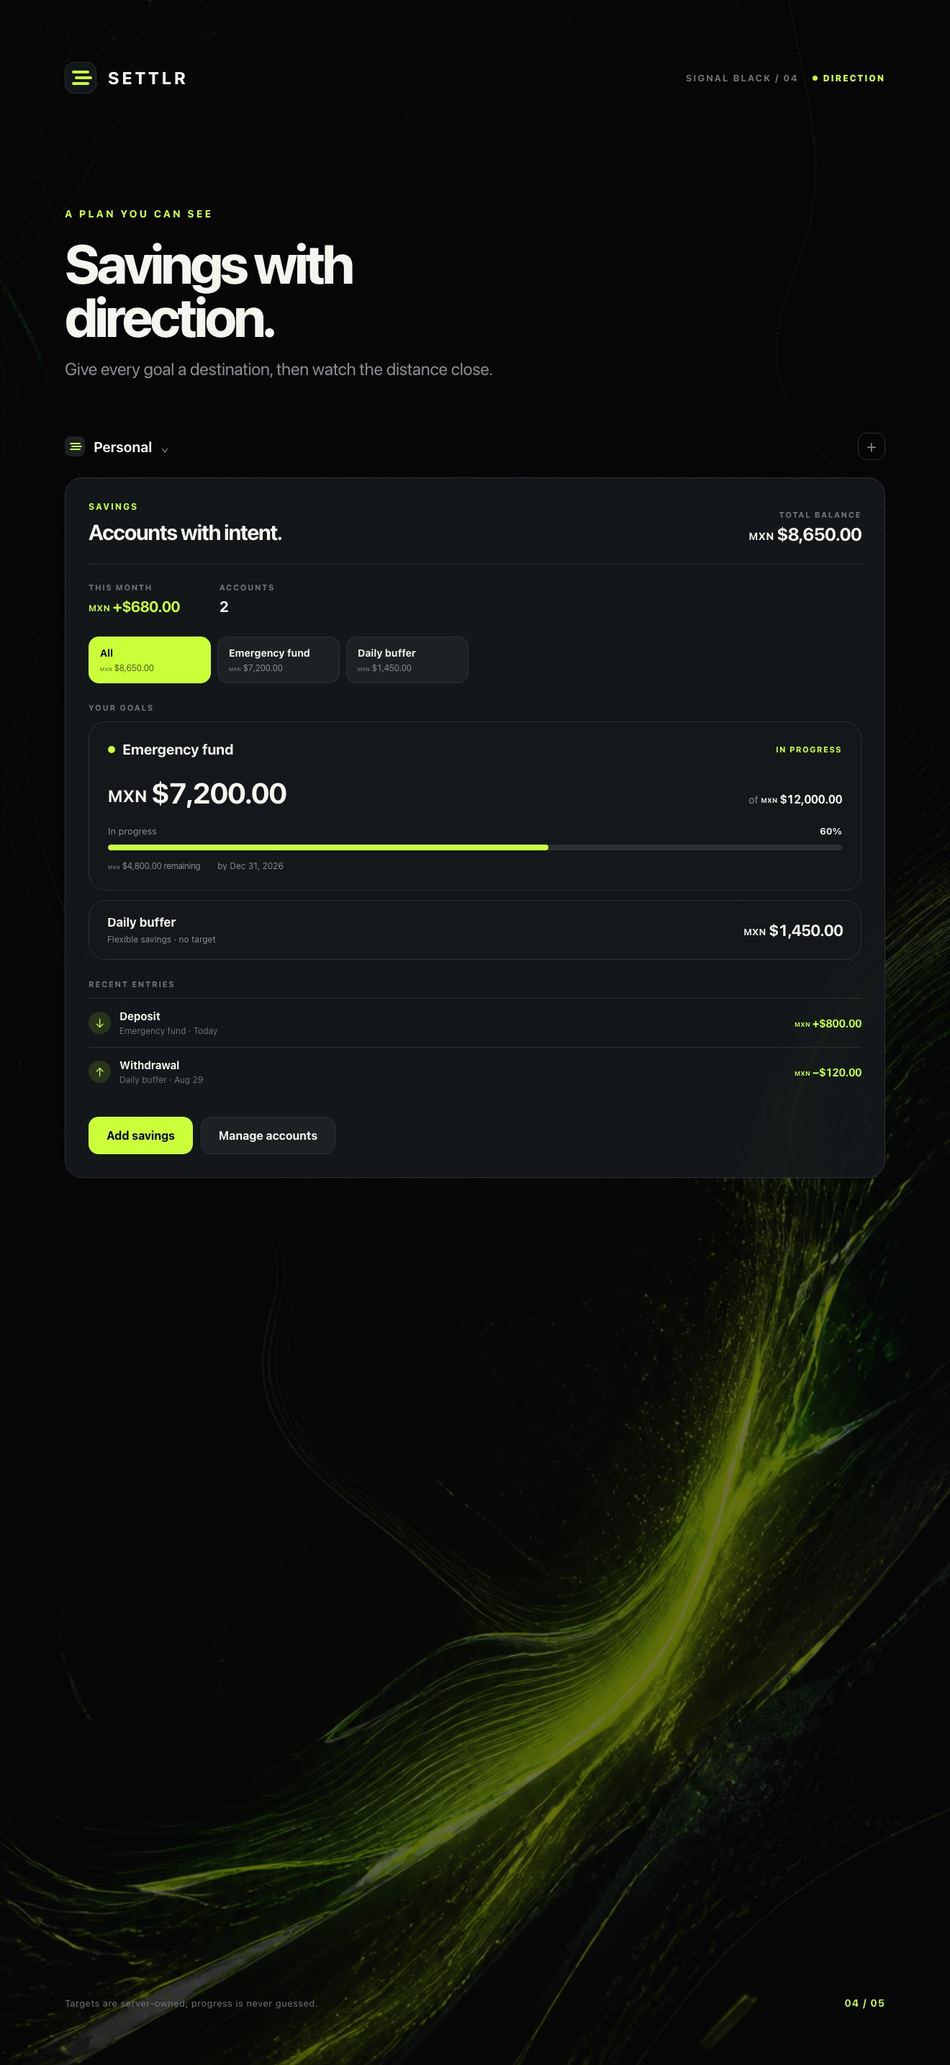
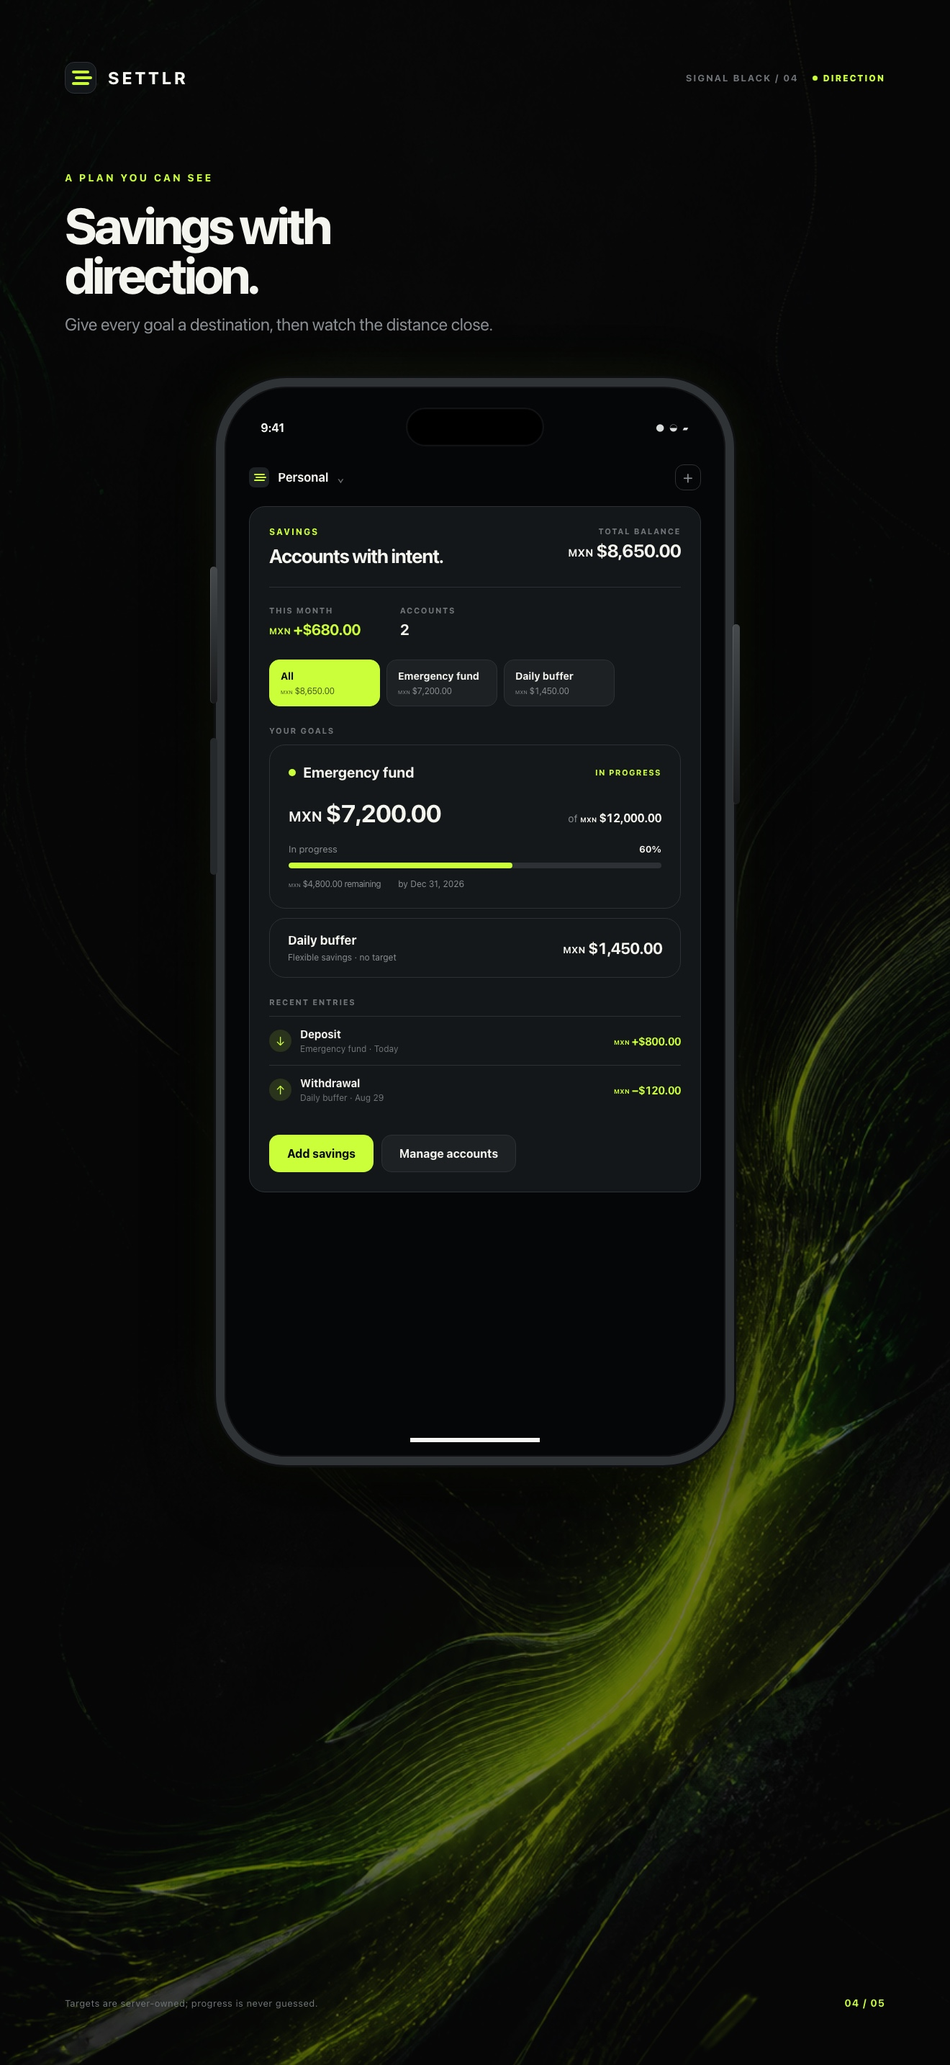
Frame App Store screenshots in iPhone

diff --git a/docs/app-store-assets/app-store-screenshots.html b/docs/app-store-assets/app-store-screenshots.html
@@ -319,6 +319,131 @@
     .payment-card .button { width: 100%; margin-top: 26px; }
     .card-note { margin-top: 25px; padding: 18px 20px; color: var(--muted); font-size: 13px; line-height: 1.45; }
     .card-note b { color: var(--ink); }
+
+    /* App Store presentation — straight-on iPhone shell */
+    .campaign-title { margin-top: 104px; }
+    .campaign-title h1 { font-size: 70px; }
+    .iphone-device {
+      position: relative;
+      isolation: isolate;
+      width: 720px;
+      height: 1510px;
+      margin: 58px auto 0;
+      padding: 108px 34px 42px;
+      border: 12px solid #303336;
+      border-radius: 98px;
+      background-color: #050607;
+      background-image: linear-gradient(90deg, #f5f5f1, #f5f5f1);
+      background-repeat: no-repeat;
+      background-position: center calc(100% - 20px);
+      background-size: 180px 6px;
+      box-shadow:
+        0 0 0 3px #0d0f10,
+        0 34px 90px rgba(0, 0, 0, .58),
+        0 0 70px rgba(202, 255, 58, .08),
+        inset 0 0 0 2px rgba(255, 255, 255, .055);
+    }
+    .iphone-device::before,
+    .iphone-device::after {
+      content: "";
+      position: absolute;
+      z-index: 0;
+      width: 10px;
+      border-radius: 5px;
+      background: linear-gradient(180deg, #464a4d, #17191a);
+      box-shadow: inset 1px 0 rgba(255, 255, 255, .13);
+    }
+    .iphone-device::before {
+      left: -20px;
+      top: 250px;
+      height: 190px;
+      box-shadow: 0 238px 0 #26292b, inset 1px 0 rgba(255, 255, 255, .13);
+    }
+    .iphone-device::after { right: -20px; top: 330px; height: 250px; }
+    .device-status {
+      position: absolute;
+      top: 29px;
+      left: 50px;
+      right: 50px;
+      height: 55px;
+      display: flex;
+      align-items: center;
+      justify-content: space-between;
+      color: #f5f5f1;
+      font-size: 16px;
+      font-weight: 700;
+      letter-spacing: -.02em;
+    }
+    .iphone-device > .device-status,
+    .iphone-device > .screen-chrome,
+    .iphone-device > .dashboard-screen,
+    .iphone-device > .activity-screen,
+    .iphone-device > .activity-separator,
+    .iphone-device > .filter-note,
+    .iphone-device > .split-flow,
+    .iphone-device > .split-footnote,
+    .iphone-device > .savings-screen,
+    .iphone-device > .cards-screen { z-index: 1; }
+    .device-status > span:last-child { color: #d8dcda; font-size: 13px; letter-spacing: .13em; }
+    .dynamic-island {
+      position: absolute;
+      left: 50%;
+      top: 0;
+      width: 192px;
+      height: 54px;
+      border: 2px solid #111315;
+      border-radius: 999px;
+      background: #000;
+      transform: translateX(-50%);
+      box-shadow: inset 0 0 0 1px rgba(255, 255, 255, .025);
+    }
+    .iphone-device .screen-chrome { margin-bottom: 22px; }
+    .iphone-device .screen-chrome .workspace { font-size: 17px; }
+    .iphone-device .screen-chrome .icon { width: 36px; height: 36px; }
+    .iphone-device .panel { border-radius: 22px; }
+
+    .iphone-device .dashboard-screen { height: calc(100% - 60px); grid-template-columns: 1fr; grid-template-rows: auto auto 1fr auto; gap: 14px; }
+    .iphone-device .dashboard-main { grid-row: auto; padding: 28px; }
+    .iphone-device .month-row { margin-bottom: 30px; }
+    .iphone-device .available { font-size: 54px; }
+    .iphone-device .flow { margin-top: 35px; }
+    .iphone-device .signal-panel { min-height: 0; padding: 25px 28px; }
+    .iphone-device .signal-headline { margin-top: 19px; font-size: 25px; }
+    .iphone-device .signal-cards { margin-top: 19px; }
+    .iphone-device .dots { margin-top: 14px; }
+    .iphone-device .fallback-panel { display: none; }
+    .iphone-device .nav-bar { grid-column: 1; align-self: end; height: 70px; }
+
+    .iphone-device .activity-screen { padding: 27px; }
+    .iphone-device .activity-toolbar { align-items: flex-start; gap: 18px; }
+    .iphone-device .activity-toolbar .title { font-size: 27px; }
+    .iphone-device .filter-pair { flex-direction: column; }
+    .iphone-device .filter { min-width: 230px; }
+    .iphone-device .activity-separator { margin: 34px 0 20px; }
+
+    .iphone-device .split-flow { display: block; }
+    .iphone-device .split-step { display: none; }
+    .iphone-device .split-step:nth-child(2) { min-height: 1160px; display: flex; }
+    .iphone-device .split-footnote { margin: 16px 16px 0; }
+
+    .iphone-device .savings-screen { padding: 27px; }
+    .iphone-device .savings-top { align-items: flex-start; }
+    .iphone-device .savings-top h2 { font-size: 27px; }
+    .iphone-device .account-chips { overflow: hidden; }
+    .iphone-device .account-chip { min-width: 154px; }
+    .iphone-device .goal-amounts b { font-size: 34px; }
+
+    .iphone-device .cards-screen { padding: 27px; }
+    .iphone-device .cards-heading h2 { font-size: 27px; }
+    .iphone-device .totals { margin-top: 20px; }
+    .iphone-device .total-cell { padding: 0 13px; }
+    .iphone-device .total-cell b { font-size: 17px; }
+    .iphone-device .card-list { grid-template-columns: 1fr; gap: 12px; margin-top: 18px; }
+    .iphone-device .payment-card { padding: 20px; }
+    .iphone-device .pay-main { margin-top: 23px; }
+    .iphone-device .mini-stats { margin-top: 18px; padding-top: 15px; }
+    .iphone-device .payment-card .button { min-height: 45px; margin-top: 16px; }
+    .iphone-device .card-note { margin-top: 16px; }
   </style>
 </head>
 <body>
@@ -326,7 +451,7 @@
     <section class="slide" data-slide="1" aria-label="Dashboard screenshot">
       <header class="topbar"><div class="wordmark"><span class="mark" aria-hidden="true"><i></i><i></i><i></i></span><span class="brand-name">SETTLR</span></div><div class="top-meta">Signal Black / 01 <b>Live</b></div></header>
       <div class="campaign-title"><div class="kicker">Money, in signal</div><h1>Your month,<br>at a glance.</h1><p>See what moved, what remains, and the signal behind every number.</p></div>
-      <div class="screen"><div class="screen-chrome"><div class="workspace"><span class="mini-mark" aria-hidden="true"><i></i><i></i><i></i></span>Personal <span class="faint">⌄</span></div><span class="icon" aria-hidden="true"><i class="settings-glyph"></i></span></div>
+      <div class="screen iphone-device" aria-label="iPhone frame"><div class="device-status" aria-hidden="true"><span>9:41</span><span class="dynamic-island"></span><span>● ◒ ▰</span></div><div class="screen-chrome"><div class="workspace"><span class="mini-mark" aria-hidden="true"><i></i><i></i><i></i></span>Personal <span class="faint">⌄</span></div><span class="icon" aria-hidden="true"><i class="settings-glyph"></i></span></div>
         <div class="dashboard-screen">
           <div class="panel dashboard-main"><div class="month-row"><span class="month">August 2026</span><span class="arrows">‹ · ›</span></div><div class="eyebrow available-label">Available this month</div><div class="available money">$18,420.00</div><div class="after-savings"><i></i>After savings</div><div class="flow"><div class="eyebrow">Money flow</div><div class="flow-row"><span class="trace"><i></i></span><div><b>Income</b><small>Received this month</small></div><strong class="row-money money positive">+$24,000</strong></div><div class="flow-row"><span class="trace"><i></i></span><div><b>Savings</b><small>Moved aside</small></div><strong class="row-money money negative">−$3,200</strong></div><div class="flow-row"><span class="trace"><i></i></span><div><b>Spending</b><small>Across 5 categories</small></div><strong class="row-money money negative">−$2,380</strong></div></div></div>
           <div class="panel signal-panel"><div class="signal-header"><span class="eyebrow signal">This month's signal · live</span><span class="live-tag">Live</span></div><div class="signal-headline">Food &amp; drink<br>leads spending</div><div class="signal-amount">43%</div><div class="signal-caption money">$1,020 · swipe for more</div><div class="signal-cards"><div class="signal-card"><b>Transport</b><span class="money">$760 · next</span></div><div class="signal-card"><b>Shopping</b><span class="money">$600 · next</span></div></div><div class="dots">• · ·</div></div>
@@ -340,7 +465,7 @@
     <section class="slide" data-slide="2" aria-label="Activity screenshot">
       <header class="topbar"><div class="wordmark"><span class="mark" aria-hidden="true"><i></i><i></i><i></i></span><span class="brand-name">SETTLR</span></div><div class="top-meta">Signal Black / 02 <b>Live</b></div></header>
       <div class="campaign-title"><div class="kicker">A clear ledger</div><h1>Every movement.<br>Clearly.</h1><p>A calm timeline for expenses, income, savings, and splits.</p></div>
-      <div class="screen"><div class="screen-chrome"><div class="workspace"><span class="mini-mark" aria-hidden="true"><i></i><i></i><i></i></span>Personal <span class="faint">⌄</span></div><span class="icon" aria-hidden="true">≡</span></div>
+      <div class="screen iphone-device" aria-label="iPhone frame"><div class="device-status" aria-hidden="true"><span>9:41</span><span class="dynamic-island"></span><span>● ◒ ▰</span></div><div class="screen-chrome"><div class="workspace"><span class="mini-mark" aria-hidden="true"><i></i><i></i><i></i></span>Personal <span class="faint">⌄</span></div><span class="icon" aria-hidden="true">≡</span></div>
         <div class="panel activity-screen"><div class="activity-toolbar"><span class="title">Activity</span><div class="filter-pair"><div class="filter type"><b>All</b><span>⌄</span></div><div class="filter time"><b>August 2026</b><span>⌄</span></div></div></div><div class="activity-summary"><b>4 movements</b><span>Newest first · MXN</span></div><div class="timeline"><div class="day"><div class="day-label">Today · August 31</div><div class="event live"><div><b>Mercado Roma</b><div class="context">Food &amp; drink · Split</div></div><div><div class="event-money money">−$428.00</div><div class="time">12:42</div></div></div><div class="event"><div><b>Freelance project</b><div class="context">Income · MXN</div></div><div><div class="event-money money positive">+$8,500.00</div><div class="time">10:20</div></div></div></div><div class="day"><div class="day-label">August 29</div><div class="event"><div><b>Rent</b><div class="context">Housing · Cash</div></div><div><div class="event-money money">−$9,200.00</div><div class="time">09:00</div></div></div></div><div class="day"><div class="day-label">August 28</div><div class="event"><div><b>Cajita Nu</b><div class="context">Deposit · Savings</div></div><div><div class="event-money money positive">+$3,200.00</div><div class="time">18:15</div></div></div></div></div><div class="activity-foot"><span>Activity is one unified ledger.</span><b>Expenses · Income · Savings · Splits</b></div></div>
         <div class="activity-separator">Separated filters</div><div class="filter-note"><strong>Type</strong> narrows the movement kind. <strong>Time</strong> sets the period. They stay distinct so the ledger remains easy to scan.</div>
       </div>
@@ -350,7 +475,7 @@
     <section class="slide" data-slide="3" aria-label="Guided bill split screenshot">
       <header class="topbar"><div class="wordmark"><span class="mark" aria-hidden="true"><i></i><i></i><i></i></span><span class="brand-name">SETTLR</span></div><div class="top-meta">Signal Black / 03 <b>Guided</b></div></header>
       <div class="campaign-title"><div class="kicker">A shared draft</div><h1>Scan. Review.<br>Split.</h1><p>One receipt, one guided path: setup, items, then a confident confirm.</p></div>
-      <div class="screen"><div class="screen-chrome"><div class="workspace"><span class="mini-mark" aria-hidden="true"><i></i><i></i><i></i></span>New split <span class="faint">· Casa Roma</span></div><span class="icon" aria-hidden="true">×</span></div>
+      <div class="screen iphone-device" aria-label="iPhone frame"><div class="device-status" aria-hidden="true"><span>9:41</span><span class="dynamic-island"></span><span>● ◒ ▰</span></div><div class="screen-chrome"><div class="workspace"><span class="mini-mark" aria-hidden="true"><i></i><i></i><i></i></span>New split <span class="faint">· Casa Roma</span></div><span class="icon" aria-hidden="true">×</span></div>
         <div class="split-flow">
           <article class="panel split-step"><div class="progress"><b class="current">1</b><span>Setup</span><i></i><b>2</b><span>Items</span><i></i><b>3</b></div><h2>Setup</h2><p class="step-intro">Choose the accounting meaning before reviewing receipt lines.</p><div class="receipt-head"><strong>Casa Roma</strong><strong class="receipt-total money">$620.00</strong><span>Aug 31 · Cash / debit</span><span class="warning">2 warnings</span></div><div class="decision-row"><div><b>Who paid?</b><small>I paid it all · Track what everyone owes you</small></div><b>✓</b></div><div class="decision-row"><div><b>How should it be divided?</b><small>By item</small></div><b>›</b></div><div class="segmented"><span class="selected">By item</span><span>Evenly</span></div><button class="button primary step-button">Review 4 items</button></article>
           <article class="panel split-step"><div class="progress"><b class="done">1</b><span>Setup</span><i></i><b class="current">2</b><span>Items</span><i></i><b>3</b></div><h2>Items</h2><p class="step-intro">Receipt evidence stays readable, editable, and honest.</p><div class="item-summary">4 items · 3 people · $594.00 subtotal</div><div class="item-list"><div class="item-row"><div><strong>Chilaquiles</strong><small>Shared · Qty 1</small></div><b class="money">$180.00</b></div><div class="item-row"><div><strong>Guacamole</strong><small>By units · Qty 2</small></div><b class="money">$140.00</b></div><div class="item-row"><div><strong>Agua mineral</strong><small>Shared · Qty 1</small><em>Needs review</em></div><b class="money">$74.00</b></div><div class="item-row"><div><strong>Enchiladas</strong><small>Shared · Qty 1</small></div><b class="money">$200.00</b></div></div><button class="button secondary add-item">＋ Add item</button><button class="button primary step-button">Check total</button></article>
@@ -363,7 +488,7 @@
     <section class="slide" data-slide="4" aria-label="Savings screenshot">
       <header class="topbar"><div class="wordmark"><span class="mark" aria-hidden="true"><i></i><i></i><i></i></span><span class="brand-name">SETTLR</span></div><div class="top-meta">Signal Black / 04 <b>Direction</b></div></header>
       <div class="campaign-title"><div class="kicker">A plan you can see</div><h1>Savings with<br>direction.</h1><p>Give every goal a destination, then watch the distance close.</p></div>
-      <div class="screen"><div class="screen-chrome"><div class="workspace"><span class="mini-mark" aria-hidden="true"><i></i><i></i><i></i></span>Personal <span class="faint">⌄</span></div><span class="icon" aria-hidden="true">＋</span></div>
+      <div class="screen iphone-device" aria-label="iPhone frame"><div class="device-status" aria-hidden="true"><span>9:41</span><span class="dynamic-island"></span><span>● ◒ ▰</span></div><div class="screen-chrome"><div class="workspace"><span class="mini-mark" aria-hidden="true"><i></i><i></i><i></i></span>Personal <span class="faint">⌄</span></div><span class="icon" aria-hidden="true">＋</span></div>
         <div class="panel savings-screen"><div class="savings-top"><div><div class="eyebrow signal">Savings</div><h2>Accounts with intent.</h2></div><div class="total"><span>Total balance</span><b class="money">$8,650.00</b></div></div><div class="metrics"><div class="metric"><span>This month</span><b class="money positive">+$680.00</b></div><div class="metric"><span>Accounts</span><b>2</b></div></div><div class="account-chips"><div class="account-chip active"><b>All</b><span class="money">$8,650.00</span></div><div class="account-chip"><b>Emergency fund</b><span class="money">$7,200.00</span></div><div class="account-chip"><b>Daily buffer</b><span class="money">$1,450.00</span></div></div><h3 class="section-label">Your goals</h3><div class="panel goal-card"><div class="goal-head"><div class="goal-name"><i class="goal-dot"></i>Emergency fund</div><span class="goal-status">In progress</span></div><div class="goal-amounts"><b class="money">$7,200.00</b><span>of <strong class="money">$12,000.00</strong></span></div><div class="progress-copy"><span>In progress</span><b>60%</b></div><div class="progress-track"><i></i></div><div class="goal-meta"><span class="money">$4,800.00 remaining</span><span>by Dec 31, 2026</span></div></div><div class="panel flex-card"><div><strong>Daily buffer</strong><span>Flexible savings · no target</span></div><b class="money">$1,450.00</b></div><div class="entries"><h3 class="section-label">Recent entries</h3><div class="entry"><div class="entry-label"><span class="entry-icon">↓</span><div><strong>Deposit</strong><small>Emergency fund · Today</small></div></div><b class="money">+$800.00</b></div><div class="entry"><div class="entry-label"><span class="entry-icon">↑</span><div><strong>Withdrawal</strong><small>Daily buffer · Aug 29</small></div></div><b class="money negative-red">−$120.00</b></div></div><div class="savings-actions"><button class="button primary">Add savings</button><button class="button secondary">Manage accounts</button></div></div>
       </div>
       <div class="bottom-note"><span>Targets are server-owned; progress is never guessed.</span><strong>04 / 05</strong></div>
@@ -372,7 +497,7 @@
     <section class="slide" data-slide="5" aria-label="Cards screenshot">
       <header class="topbar"><div class="wordmark"><span class="mark" aria-hidden="true"><i></i><i></i><i></i></span><span class="brand-name">SETTLR</span></div><div class="top-meta">Signal Black / 05 <b>On time</b></div></header>
       <div class="campaign-title"><div class="kicker">A calmer due date</div><h1>Cards without<br>surprises.</h1><p>See the fortnight, the recorded payments, and what is still owed.</p></div>
-      <div class="screen"><div class="screen-chrome"><div class="workspace"><span class="mini-mark" aria-hidden="true"><i></i><i></i><i></i></span>Personal <span class="faint">⌄</span></div><span class="icon" aria-hidden="true">▭</span></div>
+      <div class="screen iphone-device" aria-label="iPhone frame"><div class="device-status" aria-hidden="true"><span>9:41</span><span class="dynamic-island"></span><span>● ◒ ▰</span></div><div class="screen-chrome"><div class="workspace"><span class="mini-mark" aria-hidden="true"><i></i><i></i><i></i></span>Personal <span class="faint">⌄</span></div><span class="icon" aria-hidden="true">▭</span></div>
         <div class="panel cards-screen"><div class="cards-heading"><div><div class="eyebrow signal">Cards</div><h2>Payment status</h2></div><span class="menu">⋯</span></div><div class="fortnight"><button aria-label="Previous fortnight">‹</button><div class="range">16–31 Aug<small>August 2026 · payment dates</small><i></i></div><button aria-label="Next fortnight">›</button></div><div class="card-filter"><span class="pill"><span>All cards</span><span class="chev">⌄</span></span></div><div class="panel totals"><div class="total-cell"><span>To pay</span><b class="money">$6,420.00</b></div><div class="total-cell"><span>Recorded</span><b class="money">$5,020.00</b></div><div class="total-cell"><span>Still owed</span><b class="money">$1,400.00</b></div></div><div class="card-list"><article class="panel payment-card"><div class="payment-card-head"><div><strong>BBVA Gold</strong><small>•••• 4821</small></div><span class="status">OPEN</span></div><div class="pay-main"><div><span>To pay</span><b class="money">$2,400.00</b></div><div class="pay-due"><span>Due</span><b>31 Aug</b></div></div><div class="mini-stats"><div class="mini-stat"><span>Recorded</span><b class="money">$1,000.00</b></div><div class="mini-stat"><span>Still owed</span><b class="money">$1,400.00</b></div><div class="mini-stat"><span>Usage</span><b>42%</b></div></div><button class="button primary">Record payment</button><button class="button secondary">Mark as paid</button></article><article class="panel payment-card paid"><div class="payment-card-head"><div><strong>Nu Card</strong><small>•••• 1208</small></div><span class="status paid">PAID</span></div><div class="pay-main"><div><span>To pay</span><b class="money">$4,020.00</b></div><div class="pay-due"><span>Due</span><b>28 Aug</b></div></div><div class="mini-stats"><div class="mini-stat"><span>Recorded</span><b class="money">$4,020.00</b></div><div class="mini-stat"><span>Still owed</span><b class="money">$0.00</b></div><div class="mini-stat"><span>Status</span><b class="positive">Paid in full</b></div></div><button class="button secondary">Undo paid status</button></article></div><div class="panel card-note"><b>Payment dates 16–31 Aug · August 2026.</b> Cards without a cutoff or payment day stay out of this fortnight.</div></div>
       </div>
       <div class="bottom-note"><span>Dates are exact. Status is never implied.</span><strong>05 / 05</strong></div>

diff --git a/docs/app-store-assets/README.md b/docs/app-store-assets/README.md
@@ -1,6 +1,6 @@
 # Settlr App Store screenshots
 
-The compositor is [app-store-screenshots.html](./app-store-screenshots.html). It renders one opaque portrait canvas at **1320 × 2868 px**, with `?slide=1` through `?slide=5` selecting the campaign frame.
+The compositor is [app-store-screenshots.html](./app-store-screenshots.html). It renders one opaque portrait canvas at **1320 × 2868 px**, with `?slide=1` through `?slide=5` selecting the campaign frame. Each app screen sits in the same straight-on black iPhone shell, including the Dynamic Island, status area, side controls, and home indicator treatment.
 
 Apple source note: this set targets the currently accepted **6.9-inch** iPhone screenshot size (**1320 × 2868**). App Store screenshot sets allow **1–10** images; export as **JPG or PNG with no alpha channel**.
 
@@ -29,3 +29,5 @@ sips -s format jpeg -s formatOptions 95 \
 ```
 
 The only visual asset referenced by the HTML is `signal-black-background.png`; fonts are system fonts and there are no network dependencies.
+
+Run `./scripts/check-app-store-device-frames.sh` from the App directory after editing the compositor.
